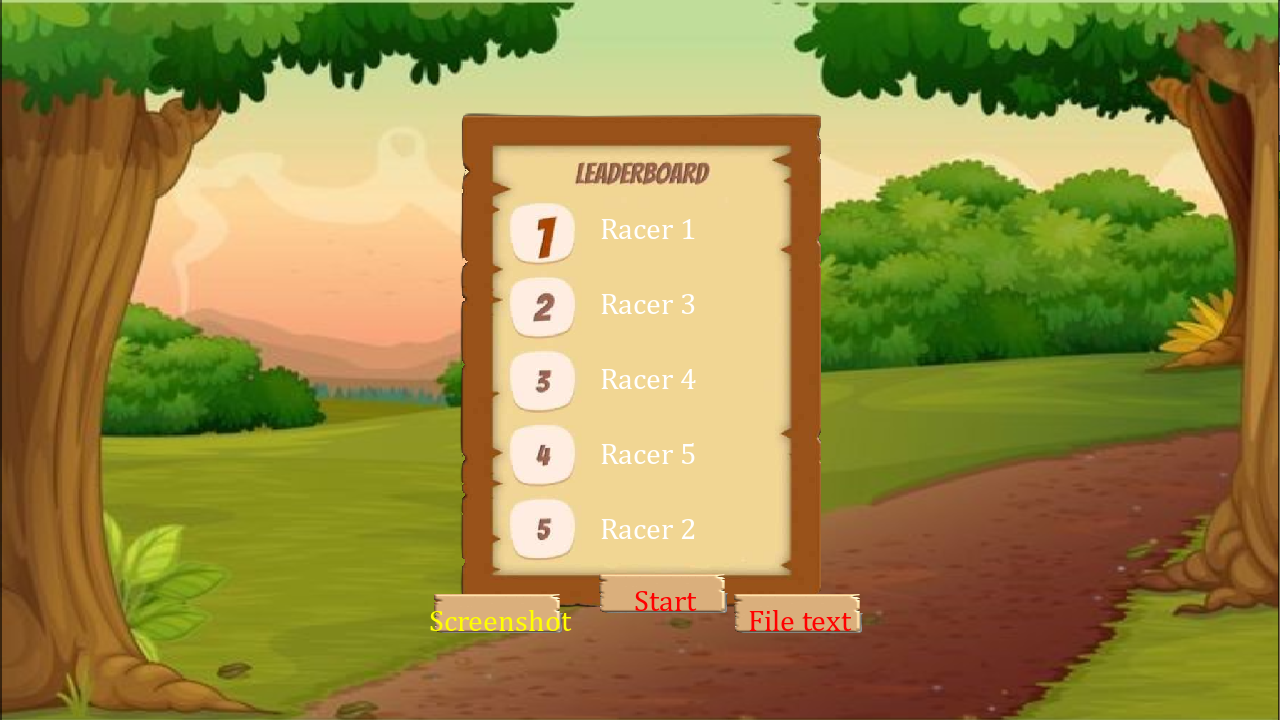
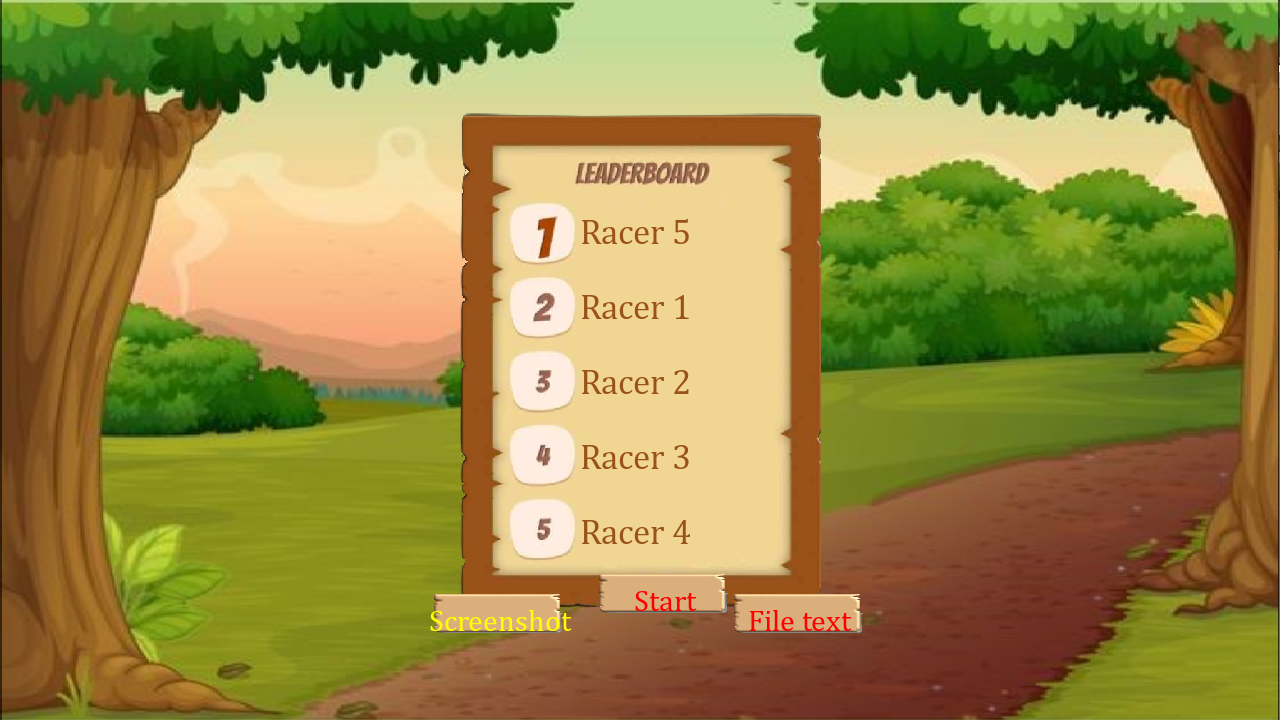
Ironed out a few bugs in leaderboard implementations

diff --git a/leaderboard.py b/leaderboard.py
@@ -28,7 +28,8 @@ BG = pygame.transform.scale(pygame.image.load('./assets/BXH/bg2.png'), (c.SCREEN
 Ldb = pygame.image.load('./assets/BXH/leaderboard00.png')
 Ldb = pygame.transform.scale(Ldb,(361,494))
 
-    
+brown_color  = pygame.Color(153, 82, 26)
+
 def filetxt(): #chuyển file screen
     pygame.display.set_caption("File text")
 
@@ -40,14 +41,19 @@ def filetxt(): #chuyển file screen
     cv2.waitKey(1000)
 
     #chọn ảnh để xuất file txt
-    iii = False #biến ảo để chạy vòng lặp
-    while iii==False:
-        img_path = filedialog.askopenfilename(title="Open a .png or .jpg file")
-        if os.path.isfile(img_path) and img_path.endswith(('.png', '.jpg', '.jpeg', '.bmp', '.gif', '.JPG')):
-            iii=True
+    # iii = False #biến ảo để chạy vòng lặp
+    # while iii==False:
+    #     img_path = filedialog.askopenfilename(title="Open a .png or .jpg file")
+    #     if os.path.isfile(img_path) and img_path.endswith(('.png', '.jpg', '.jpeg', '.bmp', '.gif', '.JPG')):
+    #         iii=True
 
+    img_path = filedialog.askopenfilename(title="Open a .png or .jpg file")
+    if not (os.path.isfile(img_path) and img_path.endswith(('.png', '.jpg', '.jpeg', '.bmp', '.gif', '.JPG'))):
+        return
 
-    while True:
+    running = True
+
+    while running:
         FILE_MOUSE_POS = pygame.mouse.get_pos()
 
         SCREEN.fill("black")
@@ -77,7 +83,7 @@ def filetxt(): #chuyển file screen
                 quit()
             if event.type == pygame.MOUSEBUTTONUP:
                 if FILE_BACK.checkForInput(FILE_MOUSE_POS):
-                    main_BXH()
+                    return
                 if FILE_SAVE.checkForInput(FILE_MOUSE_POS):
                     #xuất file txt
                     img = cv2.imread(img_path)
@@ -85,7 +91,6 @@ def filetxt(): #chuyển file screen
                     text = pytesseract.image_to_string(img, lang="eng")
                     with open("./assets/BXH/filetxt.txt", "w", encoding="utf-8") as f:
                         f.writelines(text)
-
 
                     #giao diện xuất file txt
                     root = Tk()
@@ -112,6 +117,11 @@ def filetxt(): #chuyển file screen
                                                                       ]), "w")
                         data = text_file.write(my_text.get(1.0,END))
                         text_file.close()
+                        
+
+                    def tk_quit():
+                        root.quit()
+                        root.destroy()
                     my_text = Text(root, width=40, height=10, font=("Helvetica", 16))   #hiển thị & sửa txt
                     my_text.pack(pady=20)
                     txt_button = Button(root,text= "Click to export the selected image to text", command = img_to_txt)
@@ -119,14 +129,15 @@ def filetxt(): #chuyển file screen
                     open_button = Button(root,text= "Open File", command = open_file)
                     open_button.pack(pady=20)
                     save_button = Button(root,text= "Save File", command = save_file)
-                    save_button.pack(pady=20)       
+                    save_button.pack(pady=20)  
+                    quit_button = Button(root, text="Quit", command=tk_quit).pack(pady=20)     
+                    root.protocol("WM_DELETE_WINDOW", tk_quit)
                     root.mainloop()
-
+                     
                     #thông báo thành công
                     CPL_TEXT = pygame.font.SysFont('cambria', 30).render("Complete.", True, "white")
                     CPL_RECT = CPL_TEXT.get_rect(center=(300, 500))
                     SCREEN.blit(CPL_TEXT, CPL_RECT)
-
 
                     pygame.display.update()
                     cv2.waitKey(1000)
@@ -197,8 +208,8 @@ def main_BXH(finished_racers): #main BXH screen
         #leaderboard text
         for i in range(5):
             racer = finished_racers.sprites()[i]
-            racer_text = pygame.font.SysFont('cambria', 30).render(f"{racer.name}", True, "white")
-            SCREEN.blit(racer_text, (600, 210 + i * 75))
+            racer_text = pygame.font.SysFont('cambria', 35).render(f"{racer.name}", True, brown_color)
+            SCREEN.blit(racer_text, (580, 210 + i * 75))
 
         #đổi màu button khi trỏ chuột
         for button in [Start_button, Screenshot_button, filetxt_button]:
